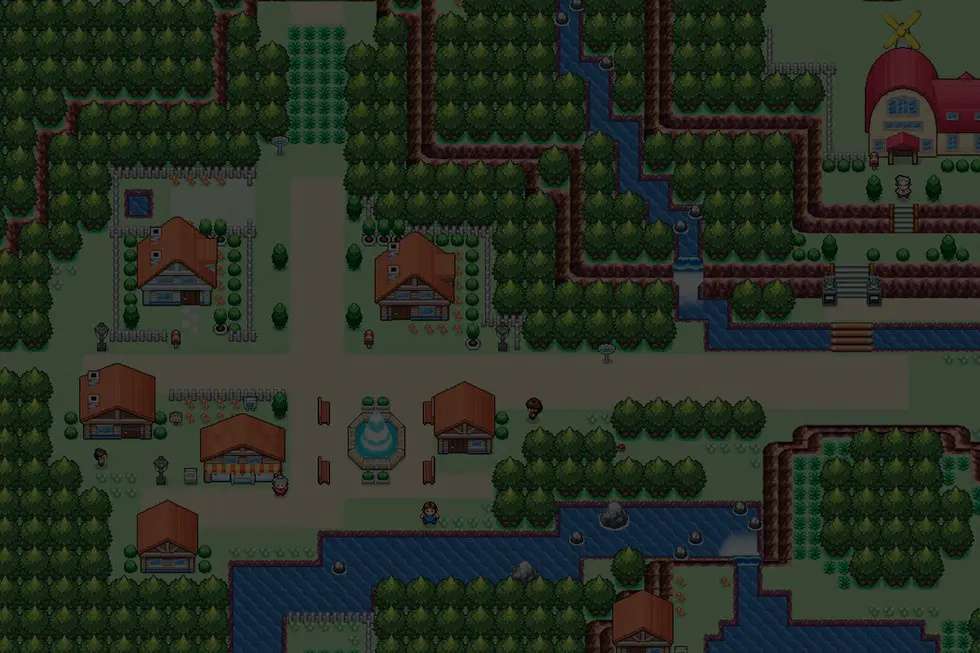
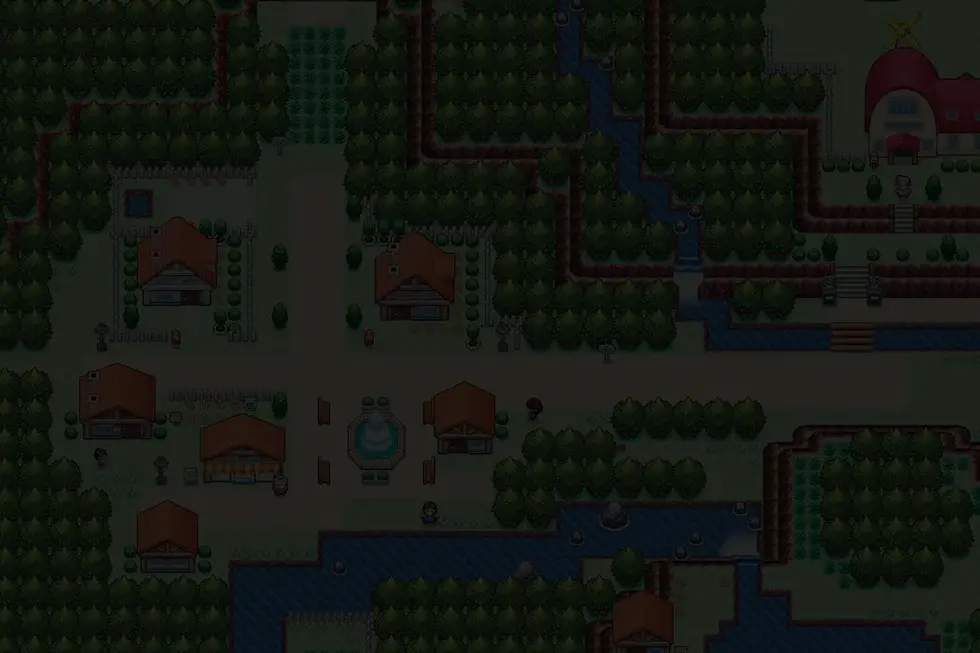
Favorite functionality added

diff --git a/src/App.jsx b/src/App.jsx
@@ -1,37 +1,55 @@
 import { Route, Routes } from 'react-router-dom'
 import './globalStyles/GlobalStyle.scss'
-import Home from './views/Home'
-import PokemonPage from './views/PokemonPage'
+import PokemonPage from './views/PokemonPage/PokemonPage'
 import Topbar from './components/Topbar/Topbar'
 import Commands from './components/Commands/Commands'
 import { PokemonProvider } from './context/PokemonProvider'
 import { useState } from 'react'
 import { CommandContext } from './context/CommandContext'
 import Error404 from './views/Eror404/Error404'
+import Home from './views/Home/Home'
+import Favorites from './views/Favorites/Favorites'
 
 function App() {
   const [theme, setTheme] = useState("light");
   const [isActive, setIsActive] = useState(false);
+  const [ favourites, setFavourites ] = useState([])
 
+  // Switch screen mode:
   const toggleTheme = () => {
     setTheme((currentTheme) => (currentTheme === "dark" ? "light" : "dark"));
   };
 
+  // Switch pokemon list view:
   const handleView = () => {
     setIsActive(current => !current);
   };
 
+  // Add to favorites:
+  const addFavouritePokemon = (pokemonId) => {
+      const newFavouriteList = [...favourites, pokemonId];
+      setFavourites(newFavouriteList)
+  }
+
+  // Remove from favorites:
+  const removeFavoritePokemon = (pokemonId) => {
+    setFavourites((prevFavorites) =>
+      prevFavorites.filter((id) => id !== pokemonId)
+    );
+  };  
+
   return (
     <>
-      <CommandContext.Provider value={{ theme, toggleTheme, handleView }}>
+      <CommandContext.Provider value={{ theme, toggleTheme, handleView, addFavouritePokemon, removeFavoritePokemon, favourites }}>
         <PokemonProvider>
           <div className="main" data-theme={theme}> 
             <div className="pokedex">
               <Topbar></Topbar>
               <div className='pokedex__area'>
-                <div className={isActive ? 'pokedex__screen screen--list' : 'pokedex__screen'}>
+                <div className='pokedex__screen'>
                   <Routes>
-                    <Route path='/' element={<Home />} />
+                    <Route path='/' element={<Home list={isActive} />} />
+                    <Route path='/Favorites' element={<Favorites list={isActive} />} />
                     <Route path='pokemon/:id/' element={<PokemonPage/>}/>
                     <Route path='*' element={<Error404/>} />
                   </Routes>

diff --git a/src/globalStyles/_layout.scss b/src/globalStyles/_layout.scss
@@ -4,15 +4,14 @@
     background-color: var(--bg-color-theme);
     color: var(--color-text);
     width: 100vw;
-    background-repeat: no-repeat;
-    background-position: center;
-    background-size: cover;
     transition: all 0.3s ease-in-out;
     overflow: hidden;
 
     @include MQ ($desktop) {
         background: var(--background-desktop);
-        mix-blend-mode: color-burn;
+        background-repeat: no-repeat;
+        background-position: center;
+        background-size: cover;
     }
 }
 
@@ -52,58 +51,15 @@
     }
 
     &__screen {
-        display: grid;
-        grid-template-columns: repeat(2, 1fr);
-        padding: var(--unit-16);
-        gap: var(--unit-16);
+        display: flex;
         flex: 1;
-
-        @include MQ ($tablet) {
-            grid-template-columns: repeat(4, 1fr);
-        }
-
+        align-items: start;
+        justify-content: center;
+        padding: var(--unit-16);
+        overflow: scroll;
+        
         @include MQ ($desktop) {
-            overflow: scroll;
-            grid-template-columns: repeat(2, 1fr);
             background-color: var(--bg-color-theme);
-        }
-
-        &.screen--list {
-            grid-template-columns: 1fr;
-            display: grid;
-            gap: var(--unit-16);
-            padding: var(--unit-16);
-
-            .pagination--loadMore {
-                grid-column: inherit;
-            }
-
-            .pokemon-card {
-                flex-direction: row;
-                gap: var(--unit-16);
-        
-                .pokemon-card__img {
-                    order: 1;
-                    width: 100%;
-                    max-width: 6rem;
-                }
-        
-                .pokemon-card__identifiers {
-                    order: 2;
-                    justify-content: start;
-                    gap: var(--unit-16);
-                }
-        
-                .pokemon-card__tags {
-                    order: 3;
-                }
-        
-            }
-        }
-
-        &:has(.pokemonView) {
-            display: flex;
-            flex: 1;
         }
     }
 

diff --git a/src/components/PokemonView/PokemonView.jsx b/src/components/PokemonView/PokemonView.jsx
@@ -1,10 +1,10 @@
 import { useContext, useEffect, useState } from 'react';
-import Button from '../Atoms/Button/Button'
 import Pagination from '../Atoms/Pagination/Pagination'
 import './PokemonView.scss'
 import { useParams } from 'react-router-dom';
 import { PokemonContext } from '../../context/PokemonContext';
 import Icon from '../Atoms/Icons/Icon';
+import HandleFavorites from '../HandleFavorites/HandleFavorites';
 
 
 export default function PokemonView () {
@@ -27,9 +27,9 @@ export default function PokemonView () {
     return (
         <>
             <div className="pokemonView">
-                <div className="pokemonView__row">
+                <div className="pokemonView__row flex-align--center">
                     <p>#{pokemon.id}</p>
-                    <Button style="btn--like"/>
+                    <HandleFavorites pokemonId={pokemon.id}/>
                 </div>
                 <div className='pokemonView__img'>
                     <img src={`https://raw.githubusercontent.com/PokeAPI/sprites/master/sprites/pokemon/other/official-artwork/${pokemon.id}.png`} alt={`This is ${pokemon.name}'s picture`} />

diff --git a/src/views/Home/Home.scss b/src/views/Home/Home.scss
@@ -1,0 +1,53 @@
+@import '/src/globalStyles/tools';
+
+.pokemon-list {
+    display: grid;
+    grid-template-columns: repeat(2, 1fr);
+    gap: var(--unit-16);
+    flex: 1;
+
+    @include MQ ($tablet) {
+        grid-template-columns: repeat(4, 1fr);
+    }
+
+    @include MQ ($desktop) {
+        grid-template-columns: repeat(2, 1fr);
+    }
+
+    &.screen--list {
+        grid-template-columns: 1fr;
+        display: grid;
+        gap: var(--unit-16);
+
+        .pagination--loadMore {
+            grid-column: inherit;
+        }
+
+        .pokemon-card {
+            flex-direction: row;
+            gap: var(--unit-16);
+    
+            .pokemon-card__img {
+                order: 1;
+                width: 100%;
+                max-width: 6rem;
+            }
+    
+            .pokemon-card__identifiers {
+                order: 2;
+                justify-content: start;
+                gap: var(--unit-16);
+            }
+    
+            .pokemon-card__tags {
+                order: 3;
+            }
+    
+        }
+    }
+
+    &:has(.pokemonView) {
+        display: flex;
+        flex: 1;
+    }
+}

diff --git a/src/components/PokemonCard/PokemonCard.jsx b/src/components/PokemonCard/PokemonCard.jsx
@@ -1,7 +1,8 @@
 import { Link } from 'react-router-dom';
-import Button from '../Atoms/Button/Button';
 import Icon from '../Atoms/Icons/Icon';
 import './PokemonCard.scss';
+import AddFavorite from '../Atoms/AddFavorite/AddFavorite';
+import HandleFavorites from '../HandleFavorites/HandleFavorites';
 
 
 export default function PokemonCard ({pokemon}) {
@@ -22,7 +23,7 @@ export default function PokemonCard ({pokemon}) {
                             <Icon key={type.type.name} name={type.type.name}></Icon>
                         ))}
                     </div>
-                    <Button style='btn--like' ariaLabel='This is a like button, select it to save your favorite pokemon'/>
+                    <HandleFavorites pokemonId={pokemon.id}/>
                 </div>
                 <Link aria-label={`This link goes to ${pokemon.name}'s page`} className='pokemon-card__url' to={`/pokemon/${pokemon.id}`} />
             </div>

diff --git a/src/views/Favorites/Favorites.jsx b/src/views/Favorites/Favorites.jsx
@@ -1,0 +1,25 @@
+import './Favorites.scss'
+import { useContext, useEffect } from 'react'
+import PokemonCard from '../../components/PokemonCard/PokemonCard'
+import { PokemonContext } from "../../context/PokemonContext"
+import { CommandContext } from '../../context/CommandContext';
+
+export default function Favorites ( props ) {
+
+    const { allPokemons } = useContext(PokemonContext);
+    const { favourites } = useContext(CommandContext);
+    const favoritePokemons = allPokemons.filter(pokemon => favourites.includes(pokemon.id));
+
+    useEffect(() => {
+    }, [allPokemons]);
+
+    return (
+        <>
+            <div className={props.list ? 'pokemon-list screen--list' : 'pokemon-list'}>
+                {favoritePokemons.map(pokemon => (
+                    <PokemonCard pokemon={pokemon} key={pokemon.id} />
+                ))}
+            </div>
+        </>
+    )
+}

diff --git a/src/views/Home/Home.jsx b/src/views/Home/Home.jsx
@@ -1,0 +1,24 @@
+import './Home.scss'
+import { useContext, useEffect } from 'react'
+import PokemonCard from '../../components/PokemonCard/PokemonCard'
+import { PokemonContext } from "../../context/PokemonContext"
+
+export default function Home ( props ) {
+
+    const { allPokemons, onClickLoadMore } = useContext(PokemonContext);
+
+    useEffect(() => {
+    }, [allPokemons]);
+
+
+    return (
+        <>
+            <div className={props.list ? 'pokemon-list screen--list' : 'pokemon-list'}>
+                {allPokemons.map(pokemon => (
+                    <PokemonCard pokemon={pokemon} key={pokemon.id} />
+                ))}
+                <p className='pagination--loadMore' onClick={onClickLoadMore}>Load More</p>
+            </div>
+        </>
+    )
+}

diff --git a/src/context/PokemonProvider.jsx b/src/context/PokemonProvider.jsx
@@ -6,7 +6,7 @@ export const PokemonProvider = ({children}) => {
     const [allPokemons, setAllPokemons] = useState([]);
 	const [offset, setOffset] = useState(0);
 
-
+	// Llamar a los primeros 20 pokemons
     const getAllPokemons = async (limit = 20) => {
 		const baseURL = 'https://pokeapi.co/api/v2/';
 
@@ -34,14 +34,14 @@ export const PokemonProvider = ({children}) => {
 		return data;
 	};
 
-    useEffect(() => {
-		getAllPokemons();
-	}, [offset]);
-
-	// BTN CARGAR MÁS
+	// Cargar los siguientes 20 pokemons
 	const onClickLoadMore = () => {
 		setOffset(offset + 20);
 	};
+
+    useEffect(() => {
+		getAllPokemons();
+	}, [offset]);
 
     
     return (

diff --git a/src/components/Atoms/RemoveFavorite/RemoveFavorite.jsx b/src/components/Atoms/RemoveFavorite/RemoveFavorite.jsx
@@ -1,0 +1,22 @@
+import { useContext } from "react";
+import Button from "../Button/Button"
+import { CommandContext } from "../../../context/CommandContext";
+
+
+const RemoveFavorite = ({ pokemonId }) => {
+    const { removeFavoritePokemon } = useContext(CommandContext);
+
+    const handleRemoveFavorite = () => {
+        removeFavoritePokemon(pokemonId);
+    };
+
+    console.log(pokemonId)
+
+    return (
+        <>
+            <Button style='btn--like active' ariaLabel='This is a like button, select it to save your favorite pokemon' click={handleRemoveFavorite}/>
+        </>
+    );
+};
+
+export default RemoveFavorite;

diff --git a/src/components/Commands/Commands.jsx b/src/components/Commands/Commands.jsx
@@ -17,7 +17,7 @@ export default function Commands (props) {
                     <Button style="btn border-radius--2" txt="Light Mode" click={toggleTheme}></Button>
                 </div>
                 <div className='flex'>
-                    <Button style="btn border-radius--3" txt="Favorites"></Button>
+                    <Link className='btn border-radius--3' to='/Favorites'>Favorites</Link>
                     <Button style="btn" txt="List" click={handleView}></Button>
                     <Button style="btn border-radius--4" txt="Dark Mode" click={toggleTheme}></Button>
                 </div>

diff --git a/src/components/Atoms/AddFavorite/AddFavorite.jsx b/src/components/Atoms/AddFavorite/AddFavorite.jsx
@@ -1,0 +1,20 @@
+import { useContext } from "react";
+import Button from "../Button/Button"
+import { CommandContext } from "../../../context/CommandContext";
+
+
+const AddFavorite = ({ pokemonId }) => {
+    const { addFavouritePokemon } = useContext(CommandContext);
+
+    const handleAddFavorite = () => {
+        addFavouritePokemon(pokemonId);
+    };
+
+    return (
+        <>
+            <Button style='btn--like' ariaLabel='This is a like button, select it to save your favorite pokemon' click={handleAddFavorite}/>
+        </>
+    );
+};
+
+export default AddFavorite;

diff --git a/src/components/HandleFavorites/HandleFavorites.jsx b/src/components/HandleFavorites/HandleFavorites.jsx
@@ -1,0 +1,17 @@
+import { useContext } from "react";
+import { CommandContext } from "../../context/CommandContext";
+import AddFavorite from "../Atoms/AddFavorite/AddFavorite";
+import RemoveFavorite from "../Atoms/RemoveFavorite/RemoveFavorite";
+
+
+export default function HandleFavorites({ pokemonId }) {
+    const { favourites } = useContext(CommandContext);
+    const isFavorite = favourites.includes(pokemonId);
+  
+    return isFavorite ? (
+      <RemoveFavorite pokemonId={pokemonId} />
+    ) : (
+      <AddFavorite pokemonId={pokemonId} />
+    );
+  }
+  
